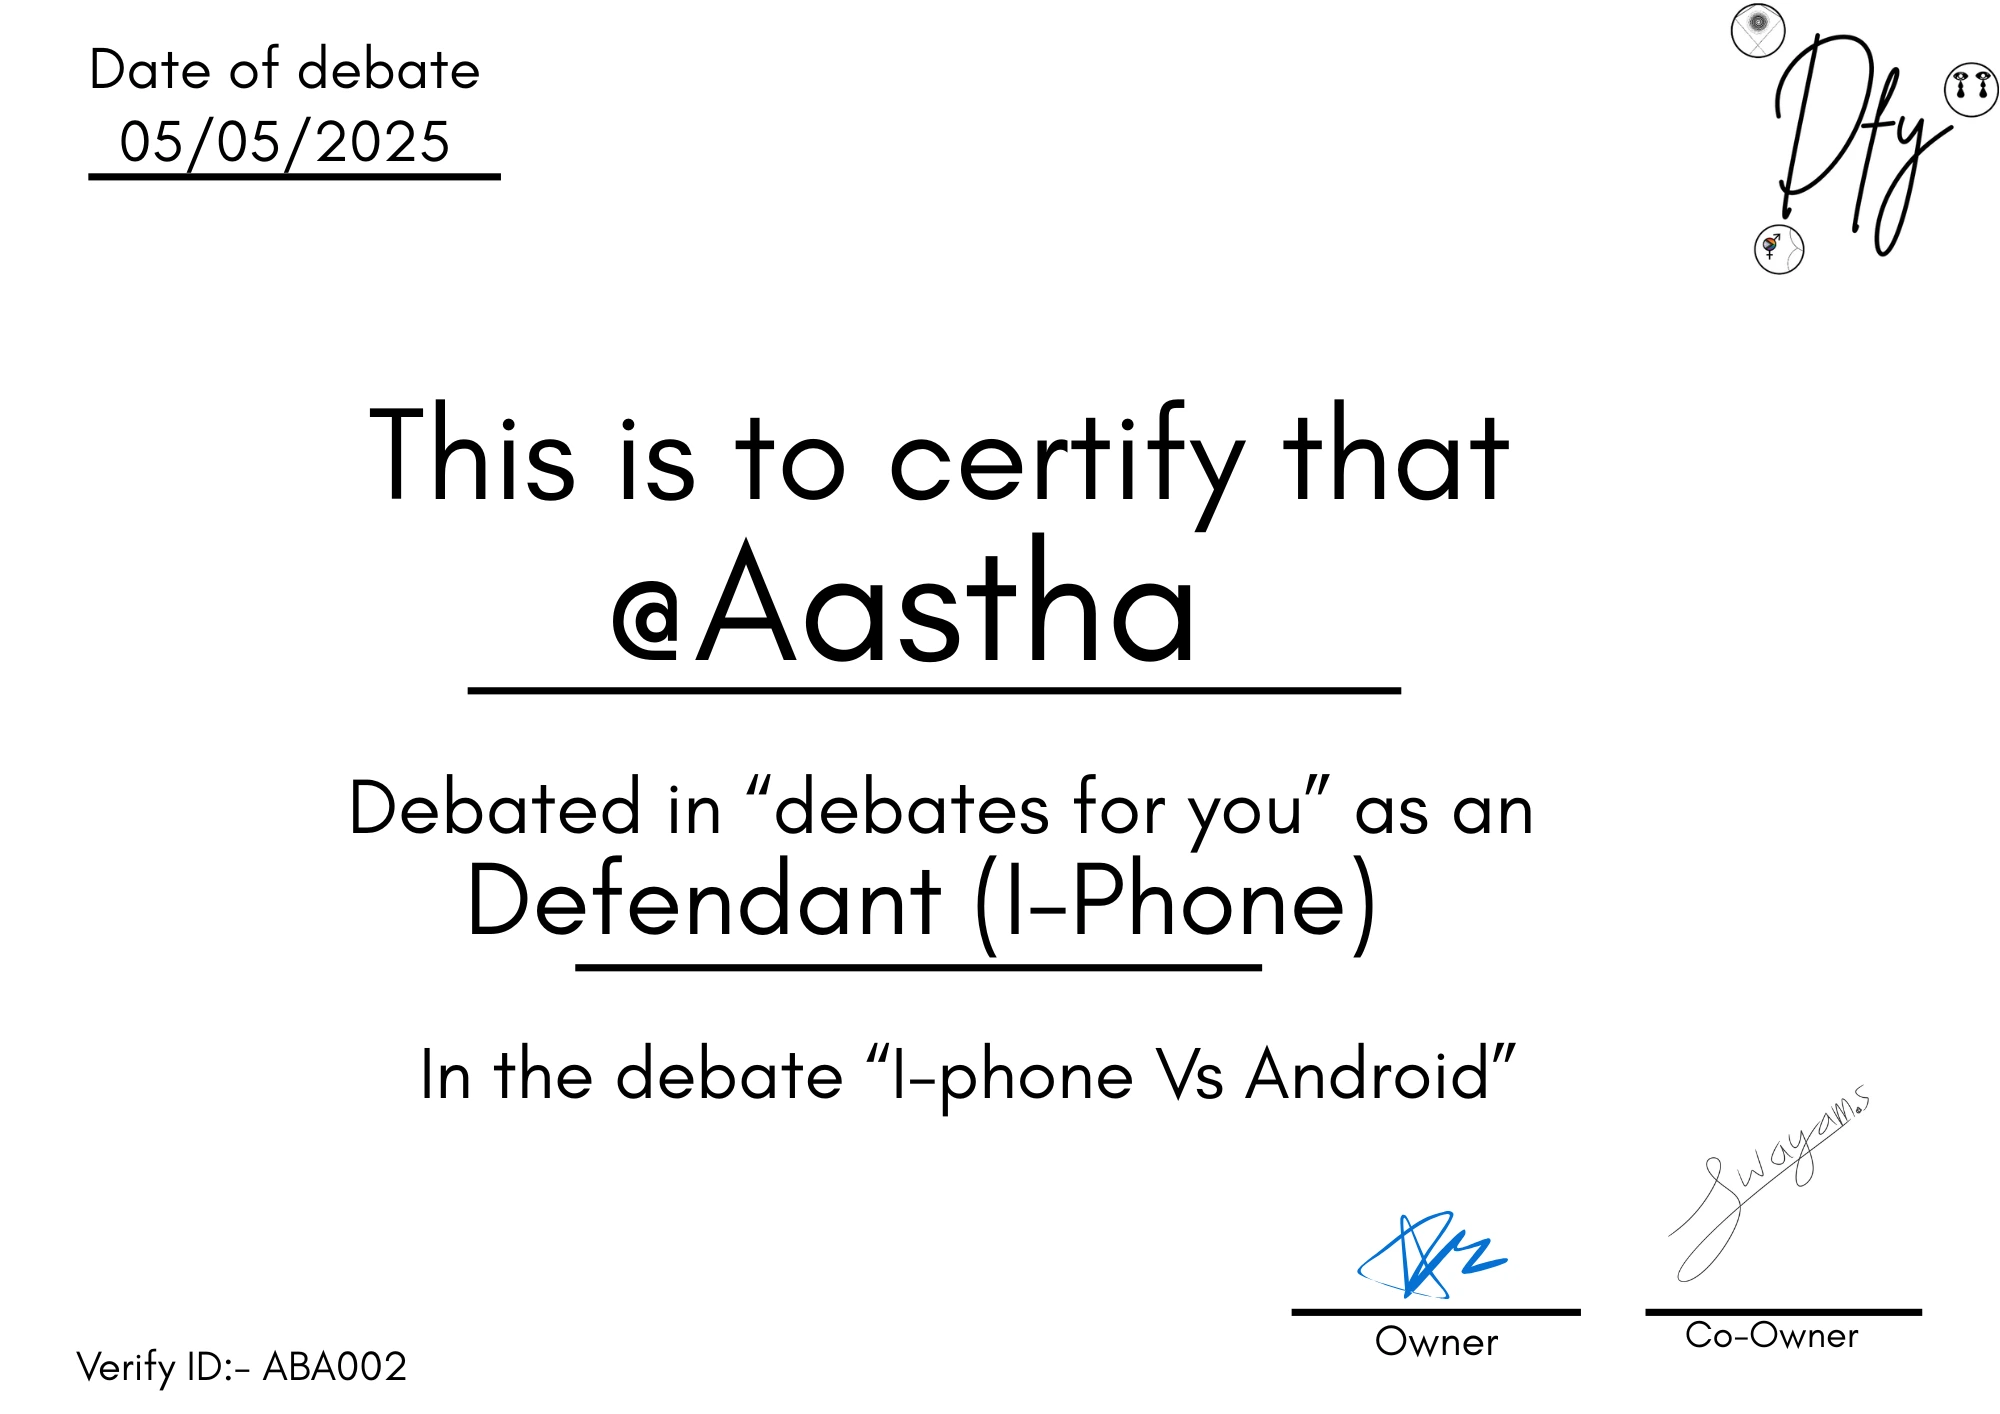
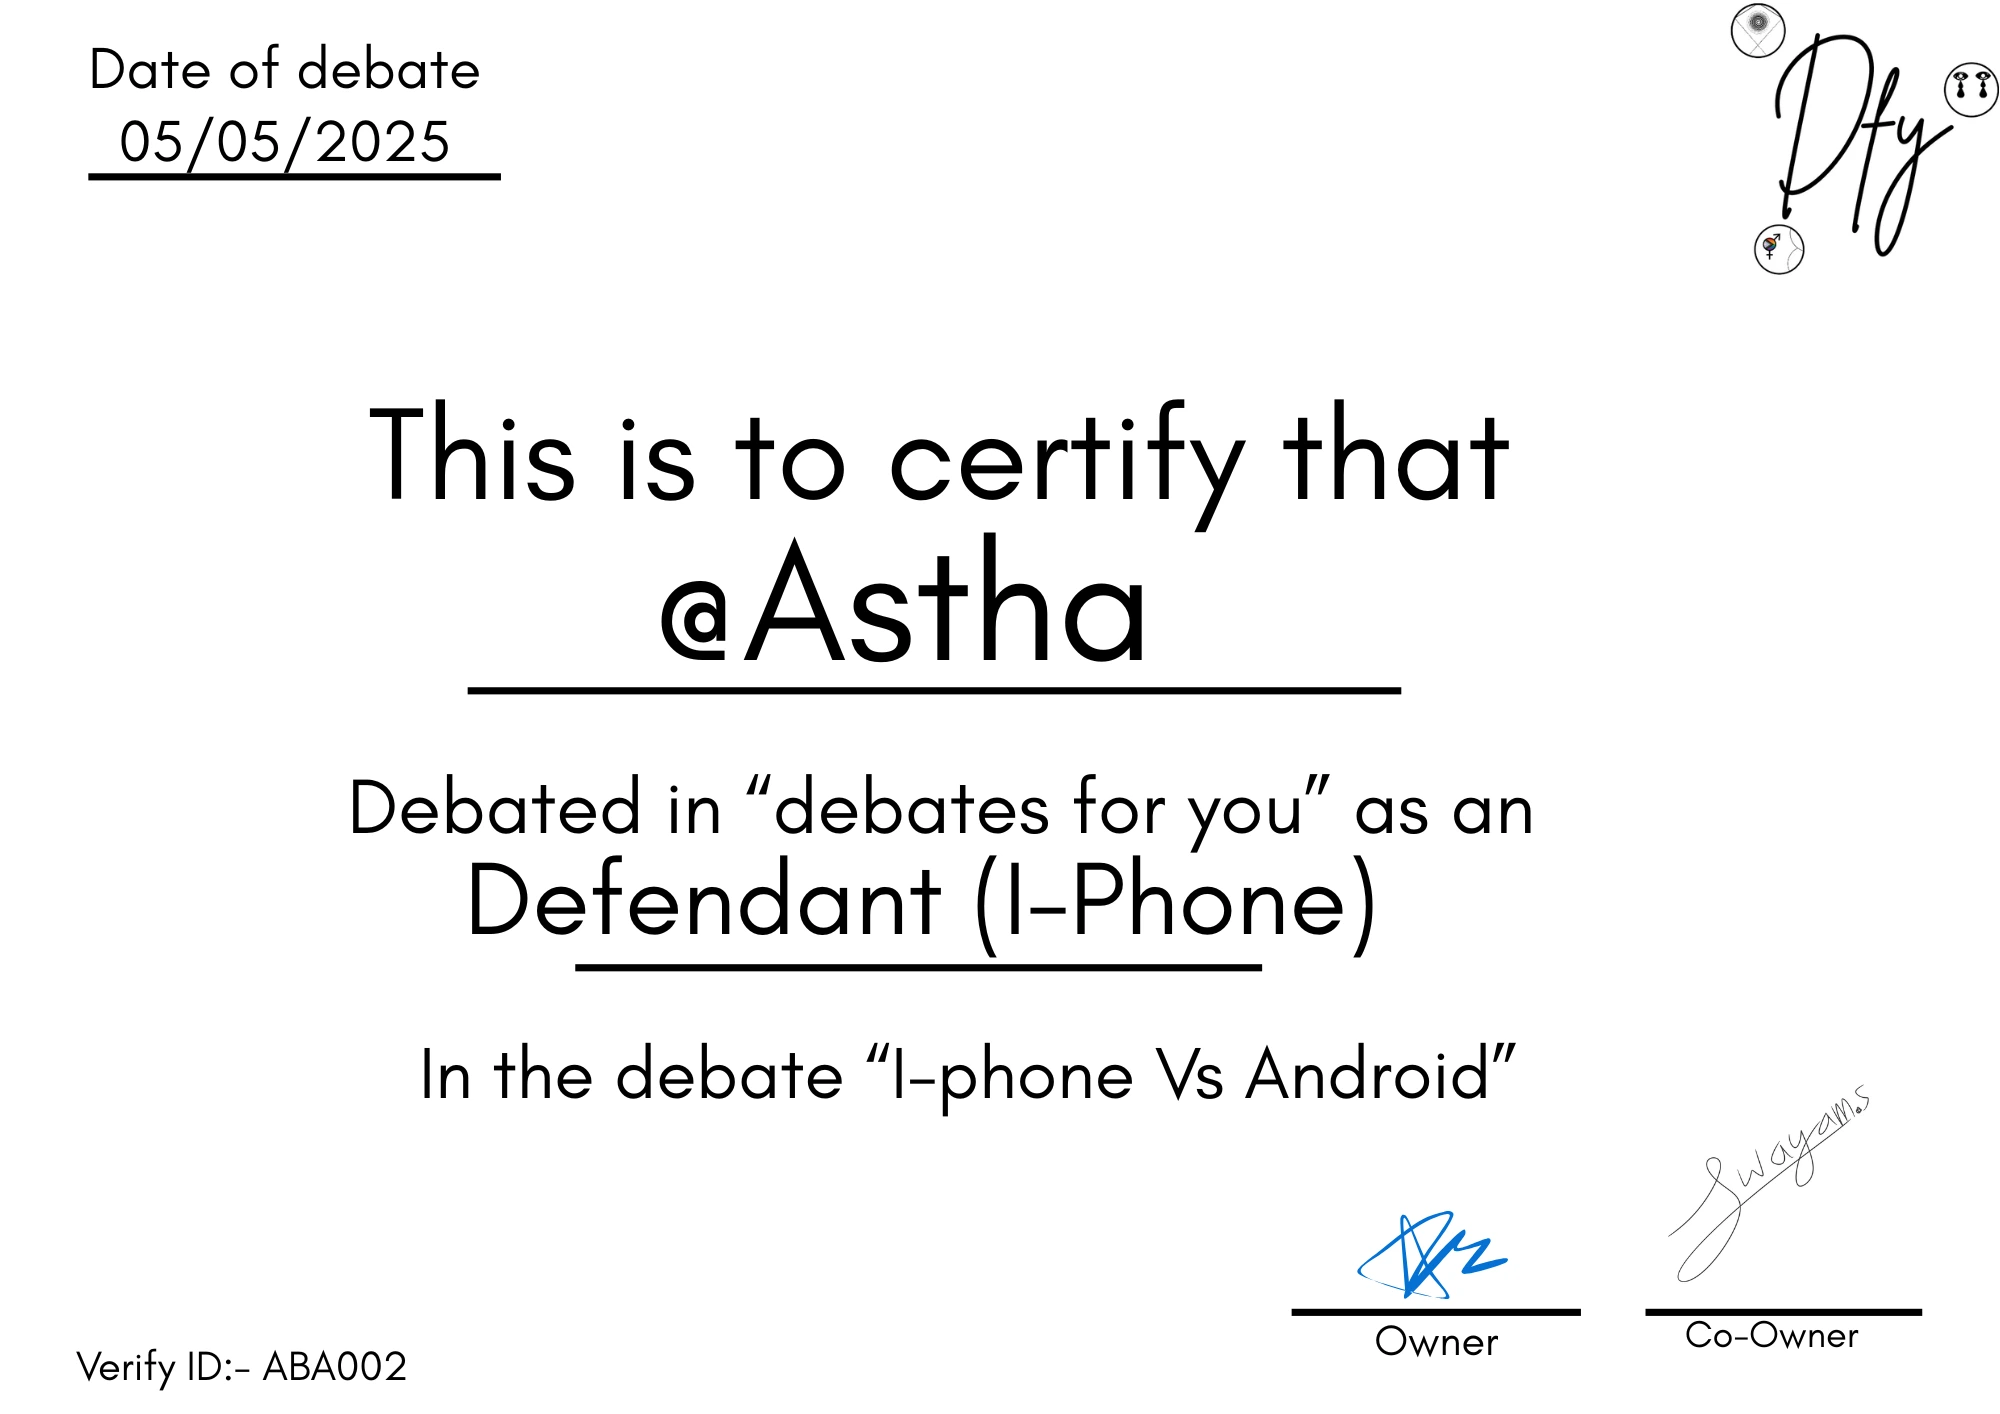
new things

Changed region(s): [[0.31, 0.3734, 0.62, 0.4668]]

diff --git a/certificate.html b/certificate.html
@@ -381,7 +381,7 @@ button:hover {
         image: "./assets/cert3.webp"
       },
       "ABA002": {
-        name: "Aastha",
+        name: "Astha",
         id: "ID# 4",
         date: "May 05, 2025",
         image: "./assets/cert4.webp"
